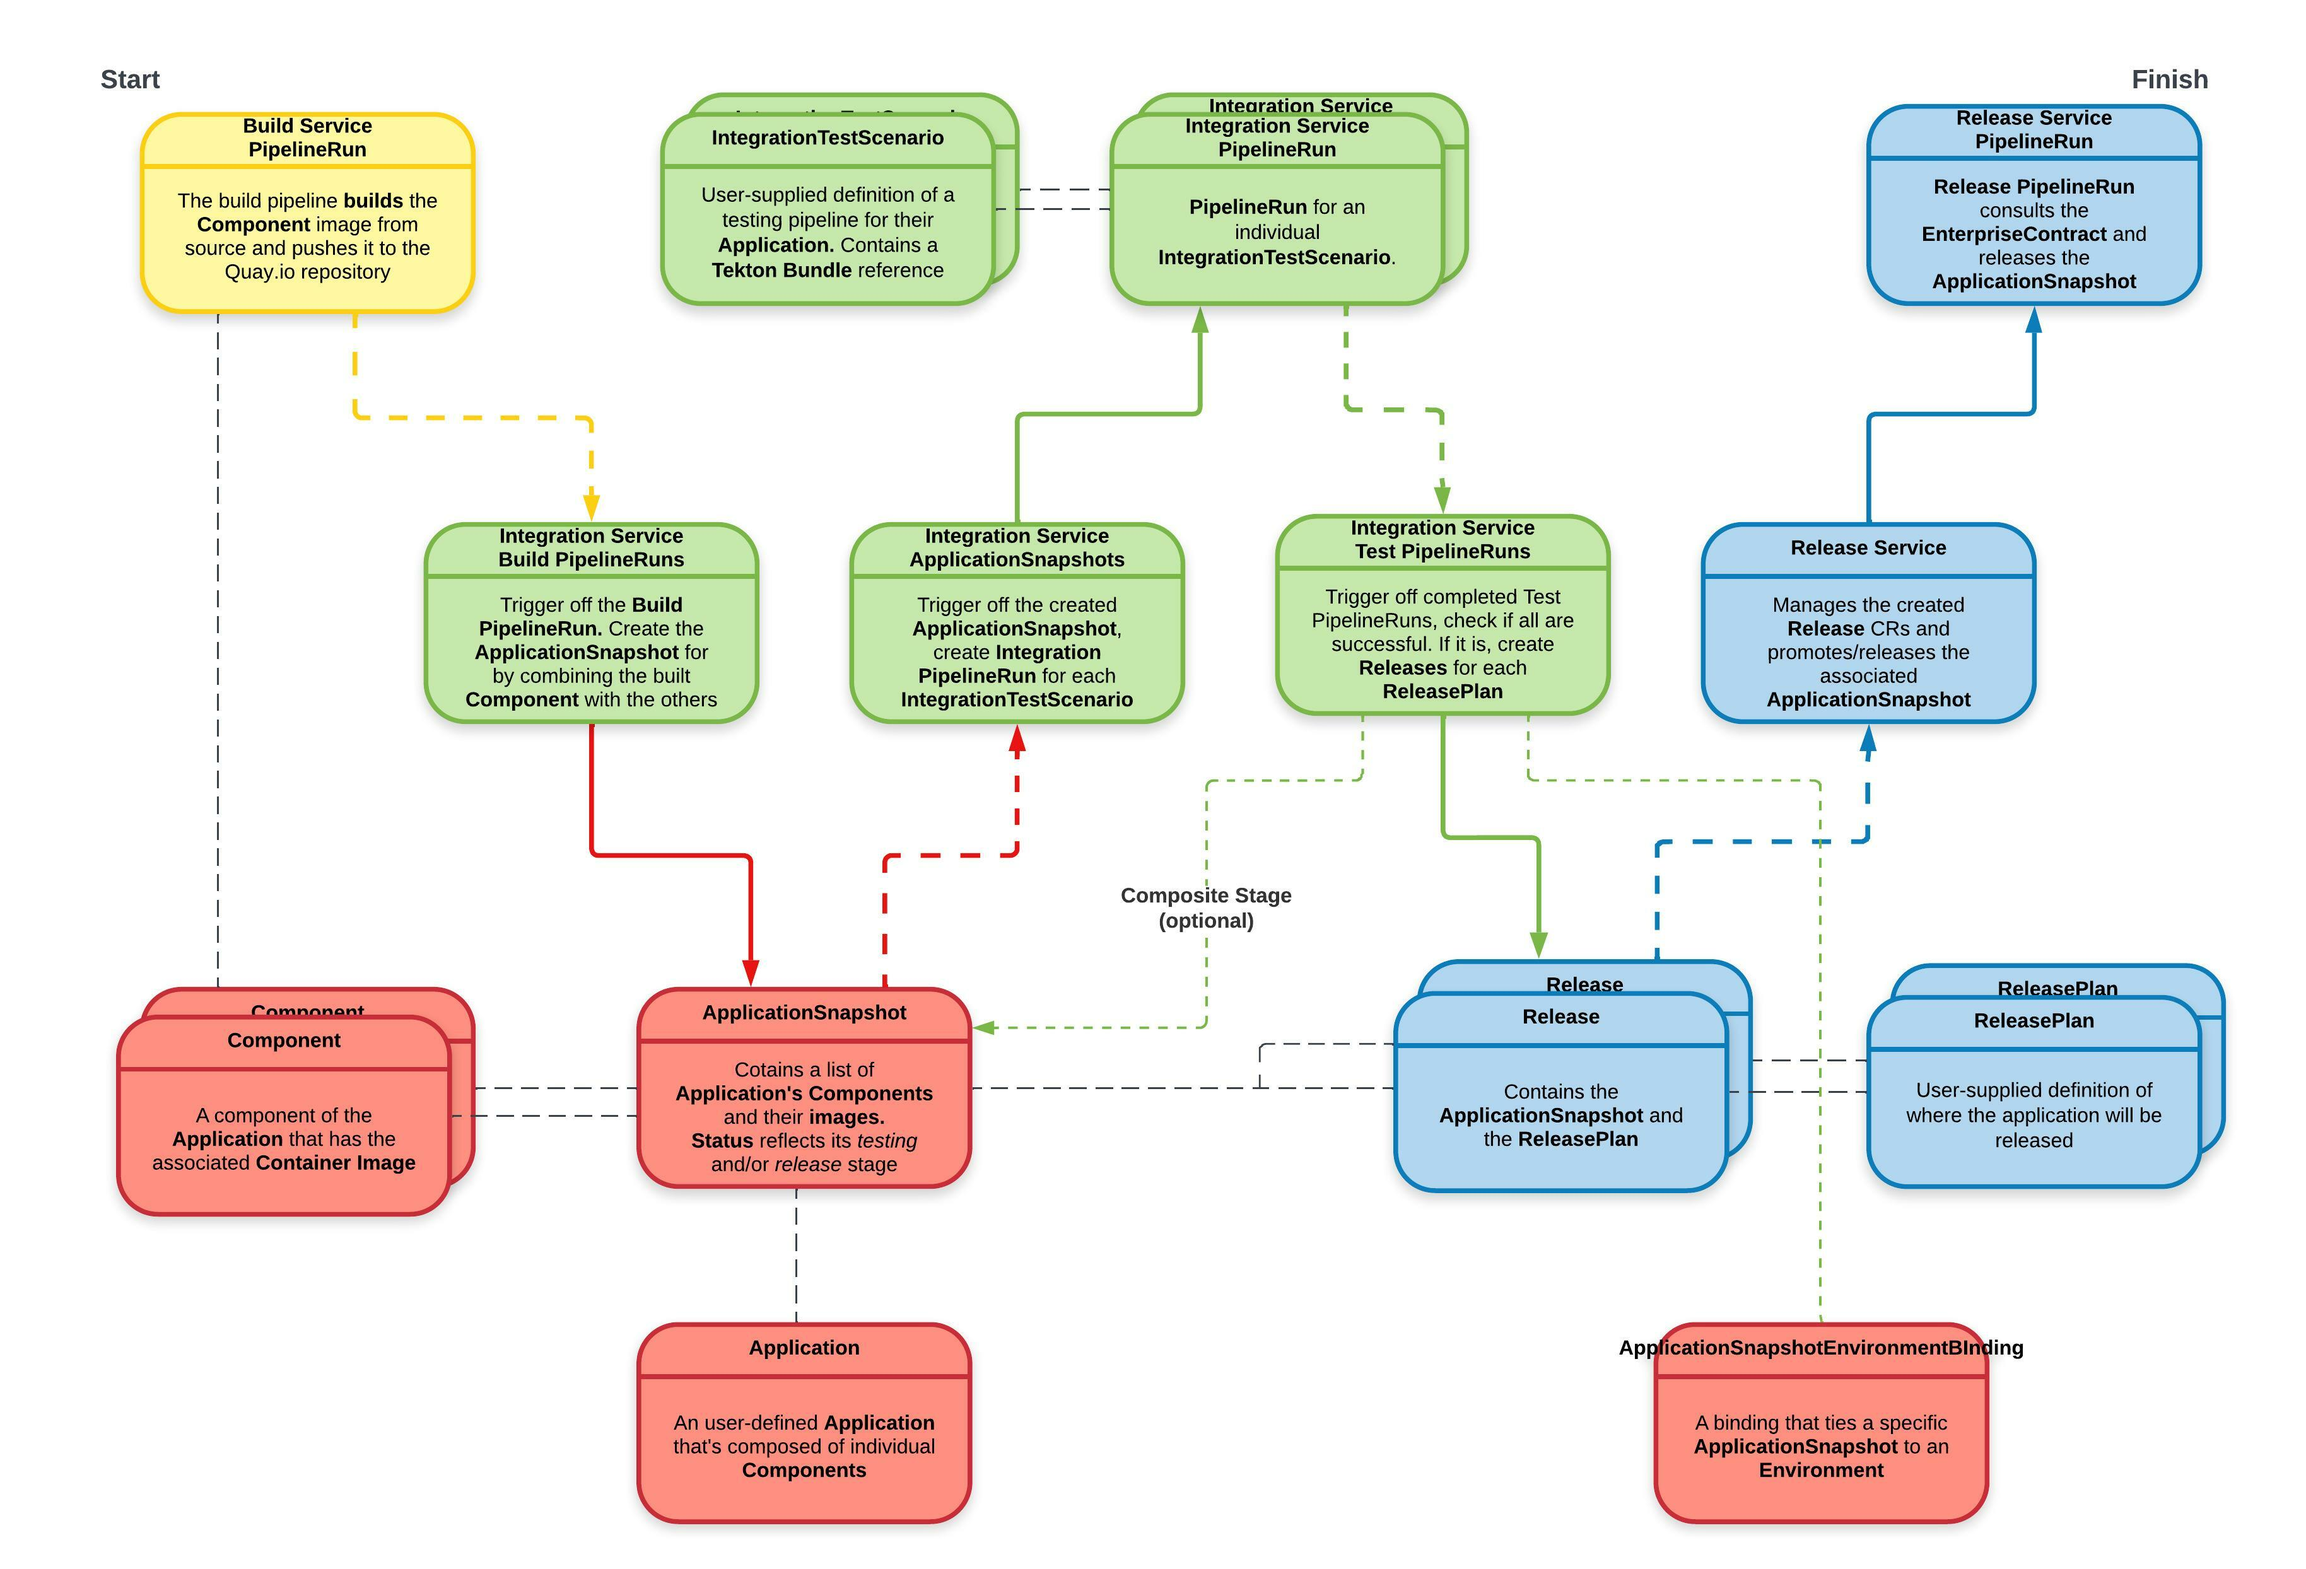
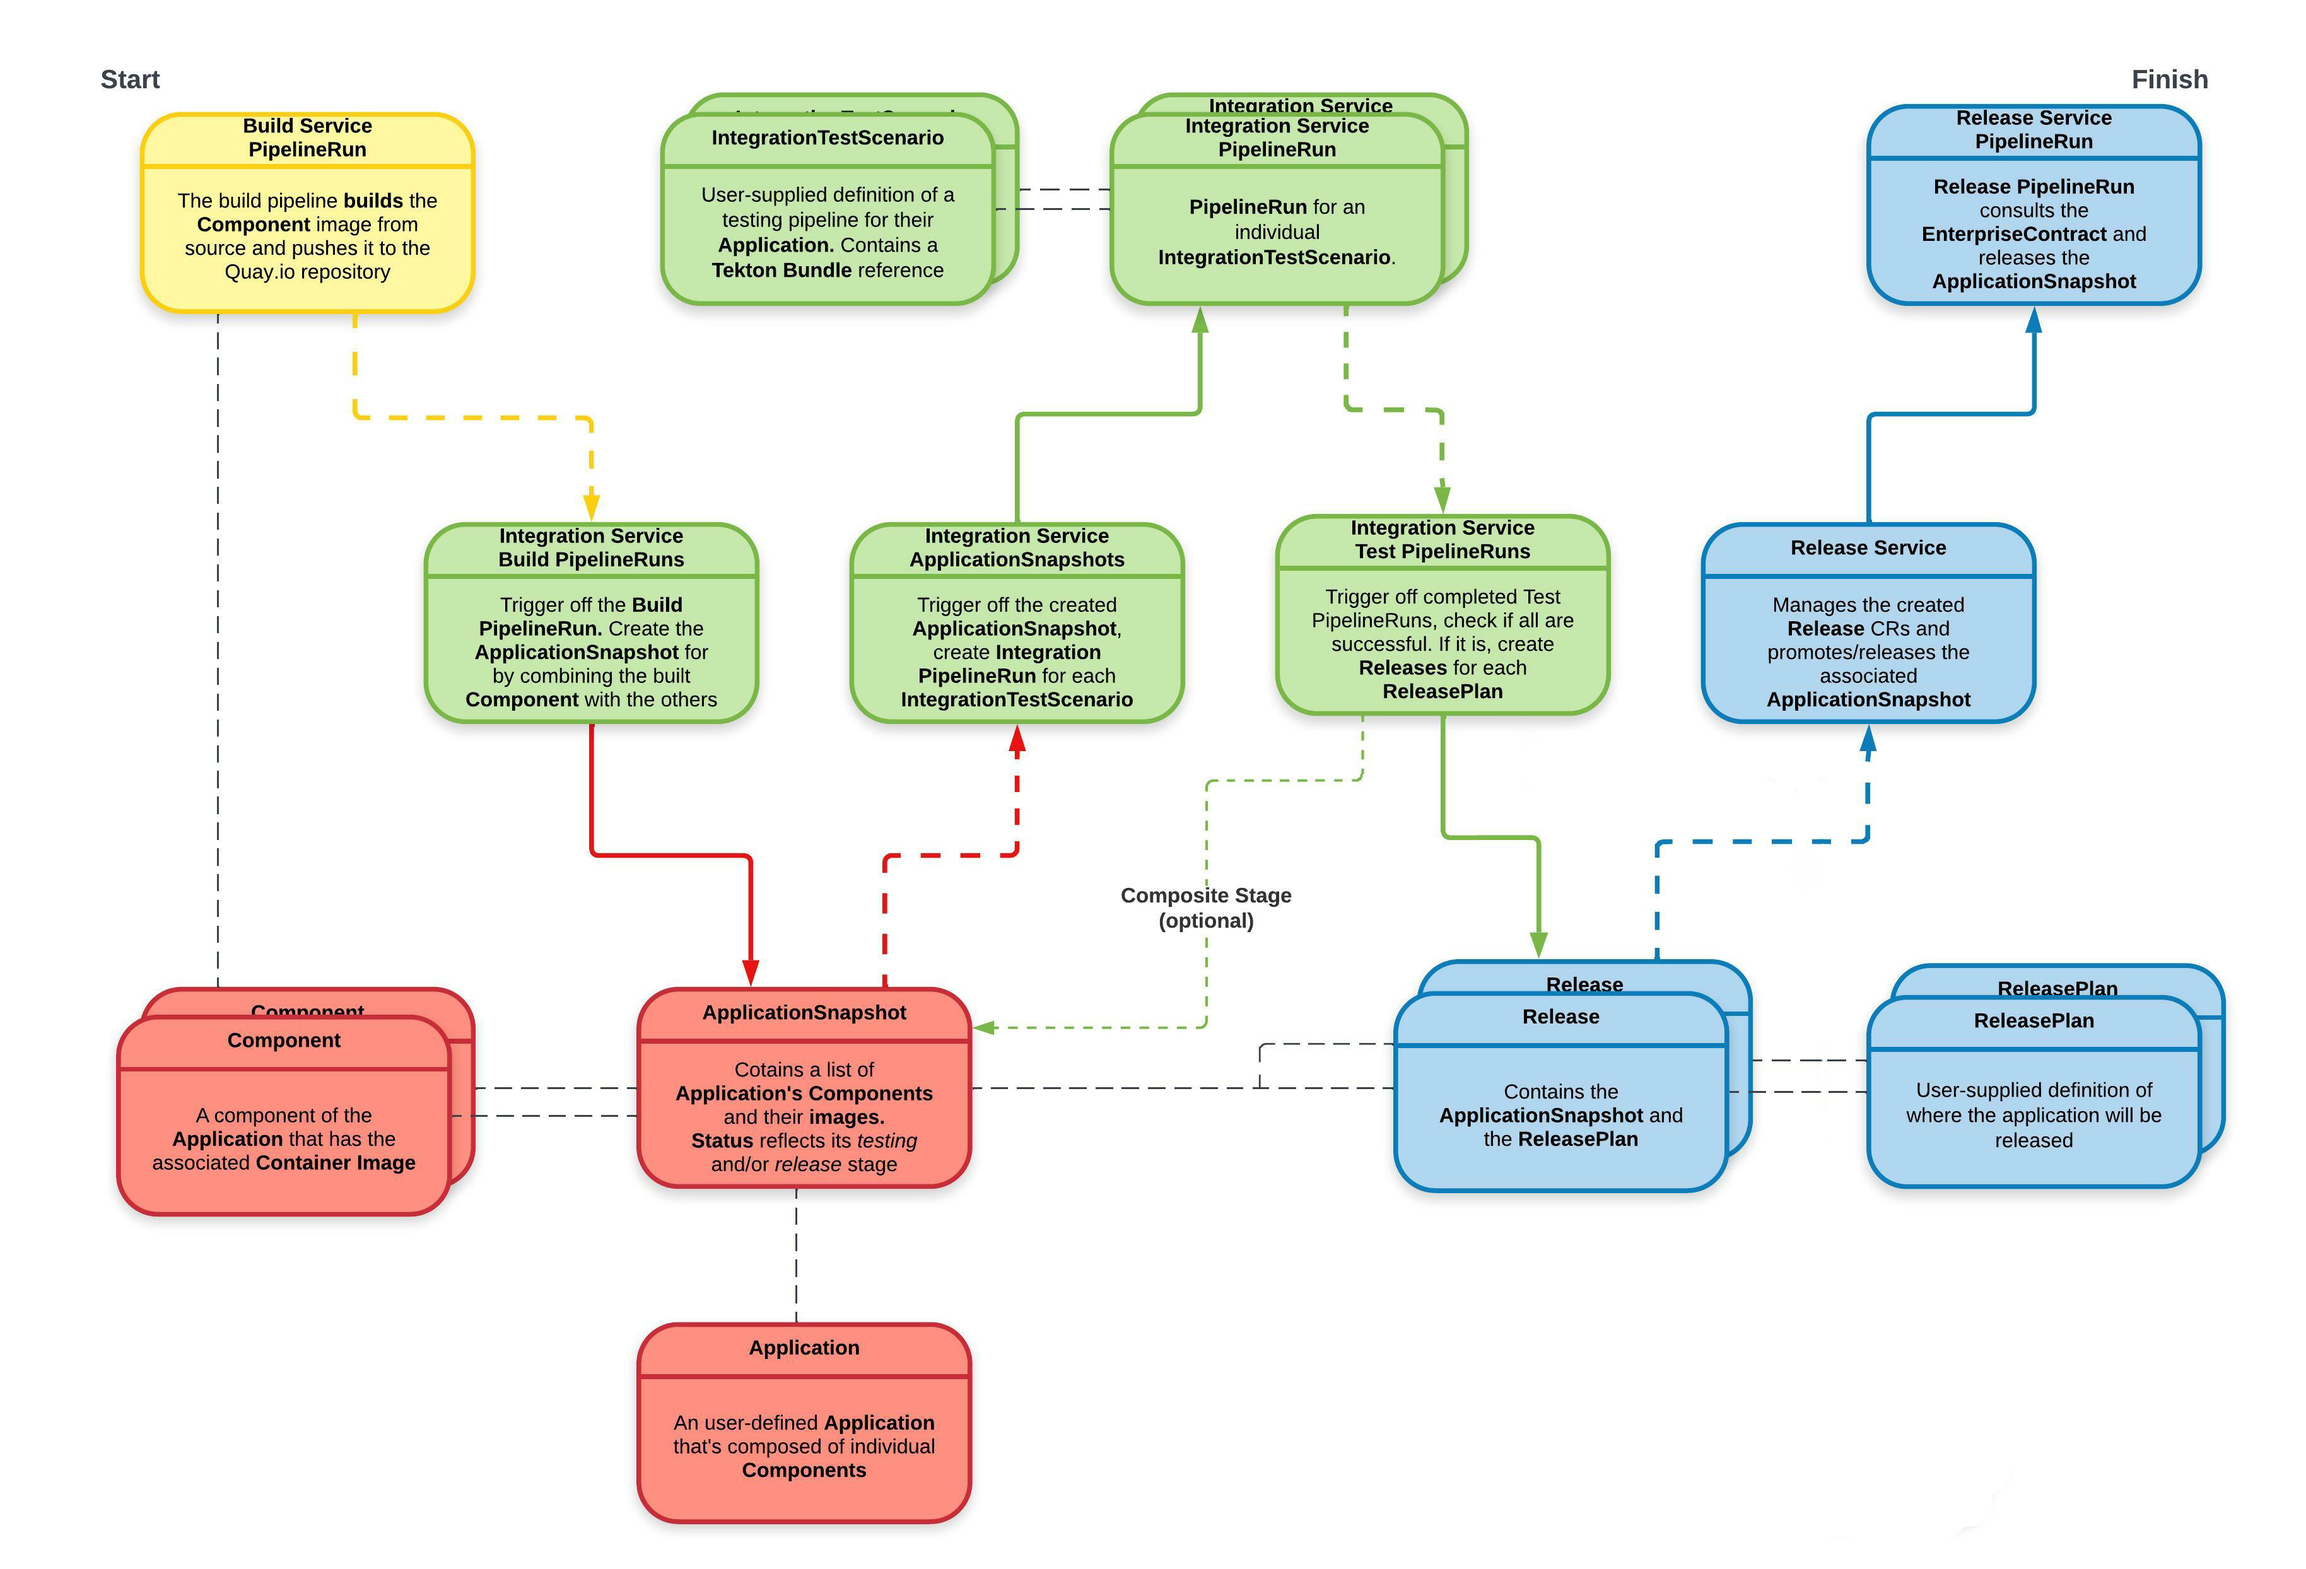
feat(STONEINTG-697): Update integraiton-service doc
* Update integration-service architecture doc since integration
  don't create SEB for successful snapshot

Changed region(s): [[0.7172, 0.8356, 0.8731, 0.9904]]

diff --git a/architecture/integration-service.md b/architecture/integration-service.md
@@ -20,7 +20,6 @@ The Integration service uses the pipeline, snapshot, and environment controllers
 - When a build pipeline completes, Integration service creates a Snapshot CR representing a new collection of components that should be tested together.
 - When Integration Service sees a new Snapshot CR (created either by itself or by a user), it coordinates deployment of the application for testing. It does this by creating new “ephemeral” AppStudio Environment CRs which trigger the GitOps Service to provision the ephemeral test environment.
 - After the environment is ready and the application snapshot has been deployed to it, Integration Service tests and validates the application according to user-provided configuration. It does this by executing Tekton PipelineRuns against the ephemeral test Environment.
-- When all of the required test Tekton PipelineRuns have passed, Integration service triggers a deployment of the application to all Environments which are not labeled as "ephemeral" and which do not have a `parentEnvironment` set. For most users, this will result in a deployment to their "development" environment (or to their "staging" environment, if they do not have a dev environment).
 - Finally, if any automatic ReleasePlans have been created by the user in the workspace, it will create a Release CR signalling intent to release the tested content, to be carried out by the [release-service](./release-service.md).
 
 The diagram below shows the interaction of the integration service and other services.
@@ -36,7 +35,6 @@ The [Integration Service](./integration-service.md) is dependent on the followin
   - Provides the facility to create
     - Snapshots defining sets of Builds to test
     - Environment to test the Application on
-    - SnapshotEnvironmentBindings to have the Snapshot of the Application deployed to a specific Environment
 - [Hybrid Application Service](./hybrid-application-service.md)
   - Provides the Application and Component model. Integration Service updates the pullspec reference on the Component CR when a component passes its required testing.
 - [Release Service](./release-service.md)
@@ -77,7 +75,6 @@ Below are the list of CRs that the integration service is responsible for intera
 | Snapshot | Post Component build PipelineRun completes.  | Used as the source input for the test gate pipeline |
 | PipelineRuns | Post Snapshot creation  | To test the Snapshot  |
 | Release | Post PipelineRun if there is a ReleasePlan for the Application, if the auto-release flag is set on the ReleasePlan | To signal to the Release Service to automatically push the Snapshot to the Production Environment |
-| SnapshotEnvironmentBinding | When deploying the Snapshot to an Environment | Create a new SnapshotEnvironmentBinding for the Dev/Stage Environment if a matching SnapshotEnvironmentBinding doesn’t already exist |
 
 ### READ
 
@@ -91,7 +88,6 @@ Below are the list of CRs that the integration service is responsible for intera
 
 | Custom Resource | When? | Why? |
 |---|---|---|
-| SnapshotEnvironmentBinding | Post Test PipelineRun | To promote the Snapshot to the next Environment (Dev/Stage) |
 | Snapshot | Post Test PipelineRun | To mark the snapshot validated so that it can be promoted to the next environment |
 | Component | Post Test PipelineRun | To update the Component with the image spec, in order to update the global candidates list |
 
@@ -191,23 +187,21 @@ The Integration service needs secrets mounted so that the `Environment Provision
 9. Compare new Snapshot from step 8 to step 3
     - If determined the same, proceed to step 10
     - If determined not the same, proceed to step 14
-10. Update the spec.Snapshot of SnapshotEnvironmentBinding(s) for lowest environments with the `<snapshot name>`
-11. Query ReleasePlan `spec.application` for the specific application in question
+10. Query ReleasePlan `spec.application` for the specific application in question
     - Check the auto-release flag on the ReleasePlan too
     - If ReleasePlan for Application found proceed to step 12
     - If ReleasePlan for Application NOT found proceed to step 13
-12. Create a Release with the `spec.ReleasPlan` and `spec.Snapshot`
-13. Done - Repeat from Step 1 again
-14. If not the same, repeat step 4
+11. Create a Release with the `spec.ReleasPlan` and `spec.Snapshot`
+12. Done - Repeat from Step 1 again
+13. If not the same, repeat step 4
     - Assign the same annotations except
         Test: composite
         Snapshot: name from step 8
     - Pass in the Snapshot name as a parameter
-15. Watch the PipelineRun of `test: composite` and `snapshot: <snapshot name>`
+14. Watch the PipelineRun of `test: composite` and `snapshot: <snapshot name>`
     - When PipelineRuns complete
         - If all PipelineRuns passed, mark the Snapshot as validated by setting its status condition HACBSTestsSucceeded as true
-16. Repeat step 10
-17. Repeat step 11-13
+15. Repeat step 11-12
 
 ### Image extraction details
 
